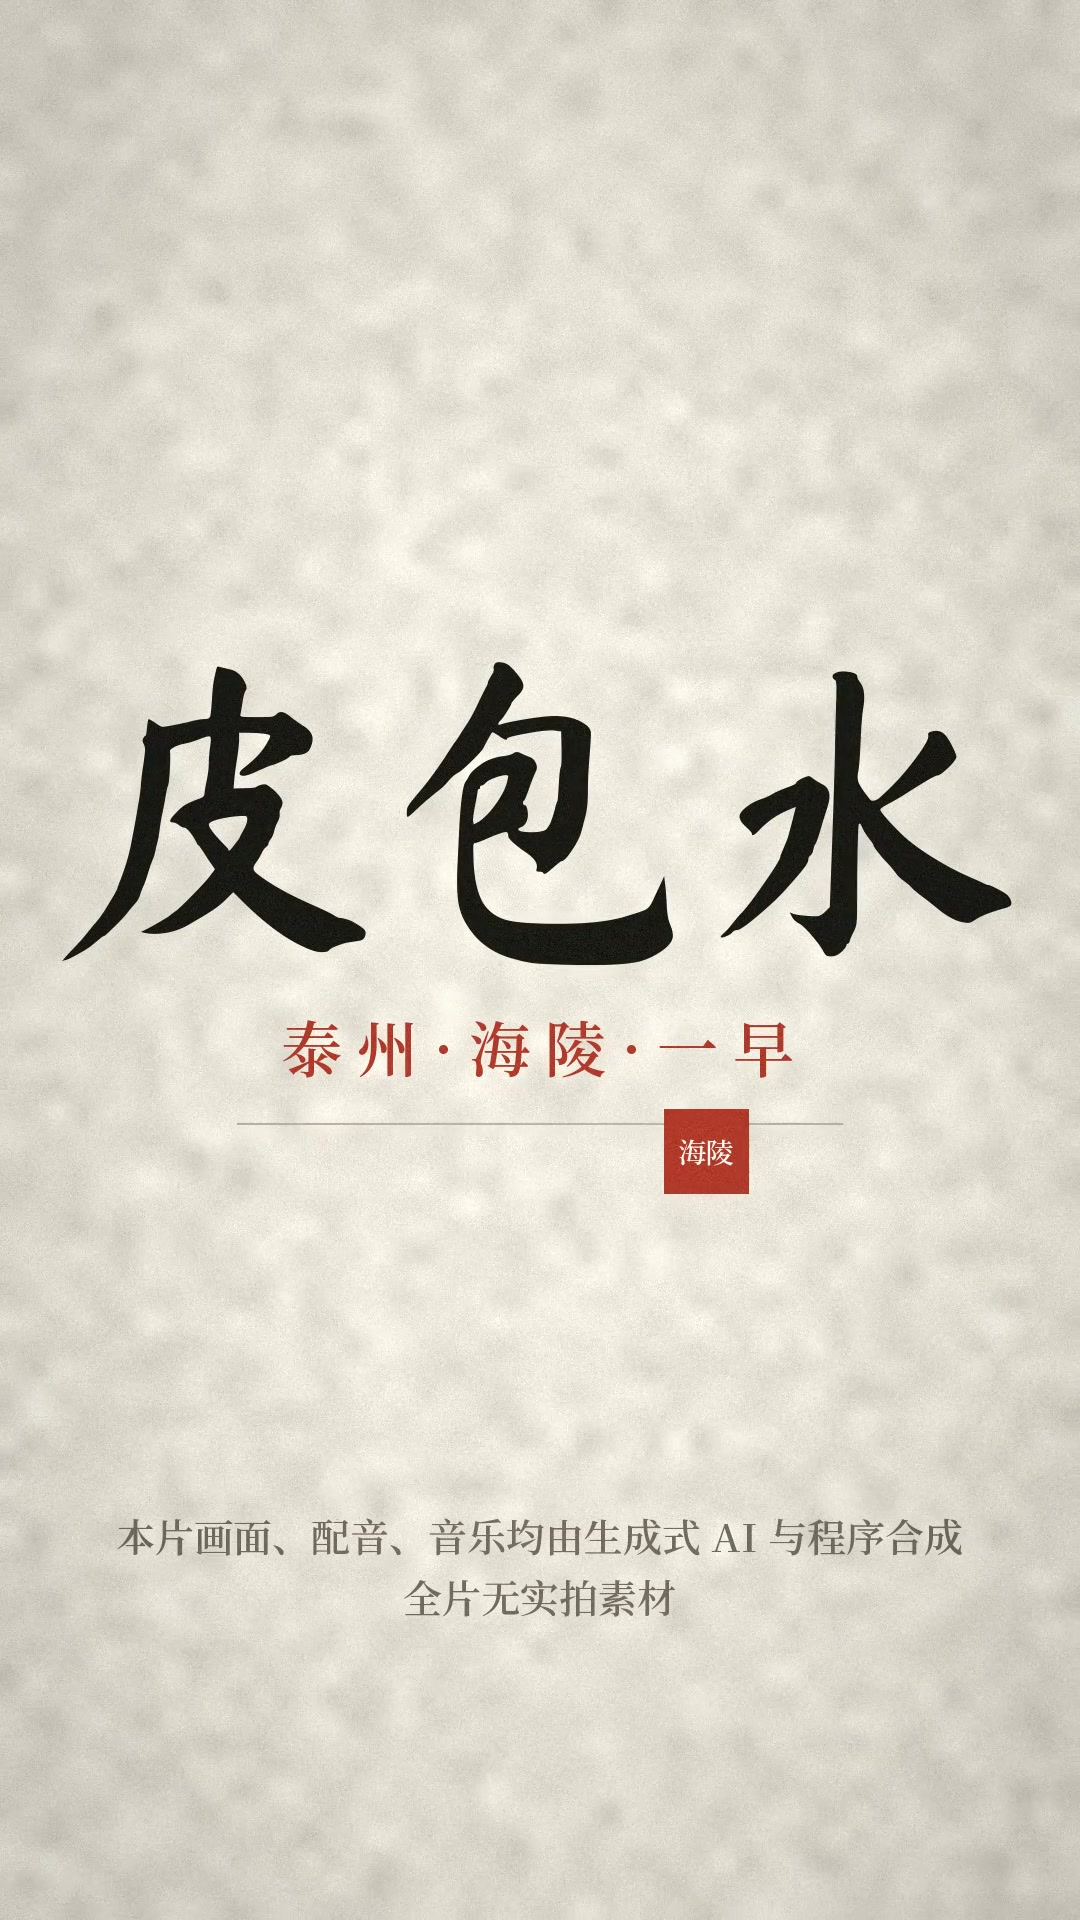
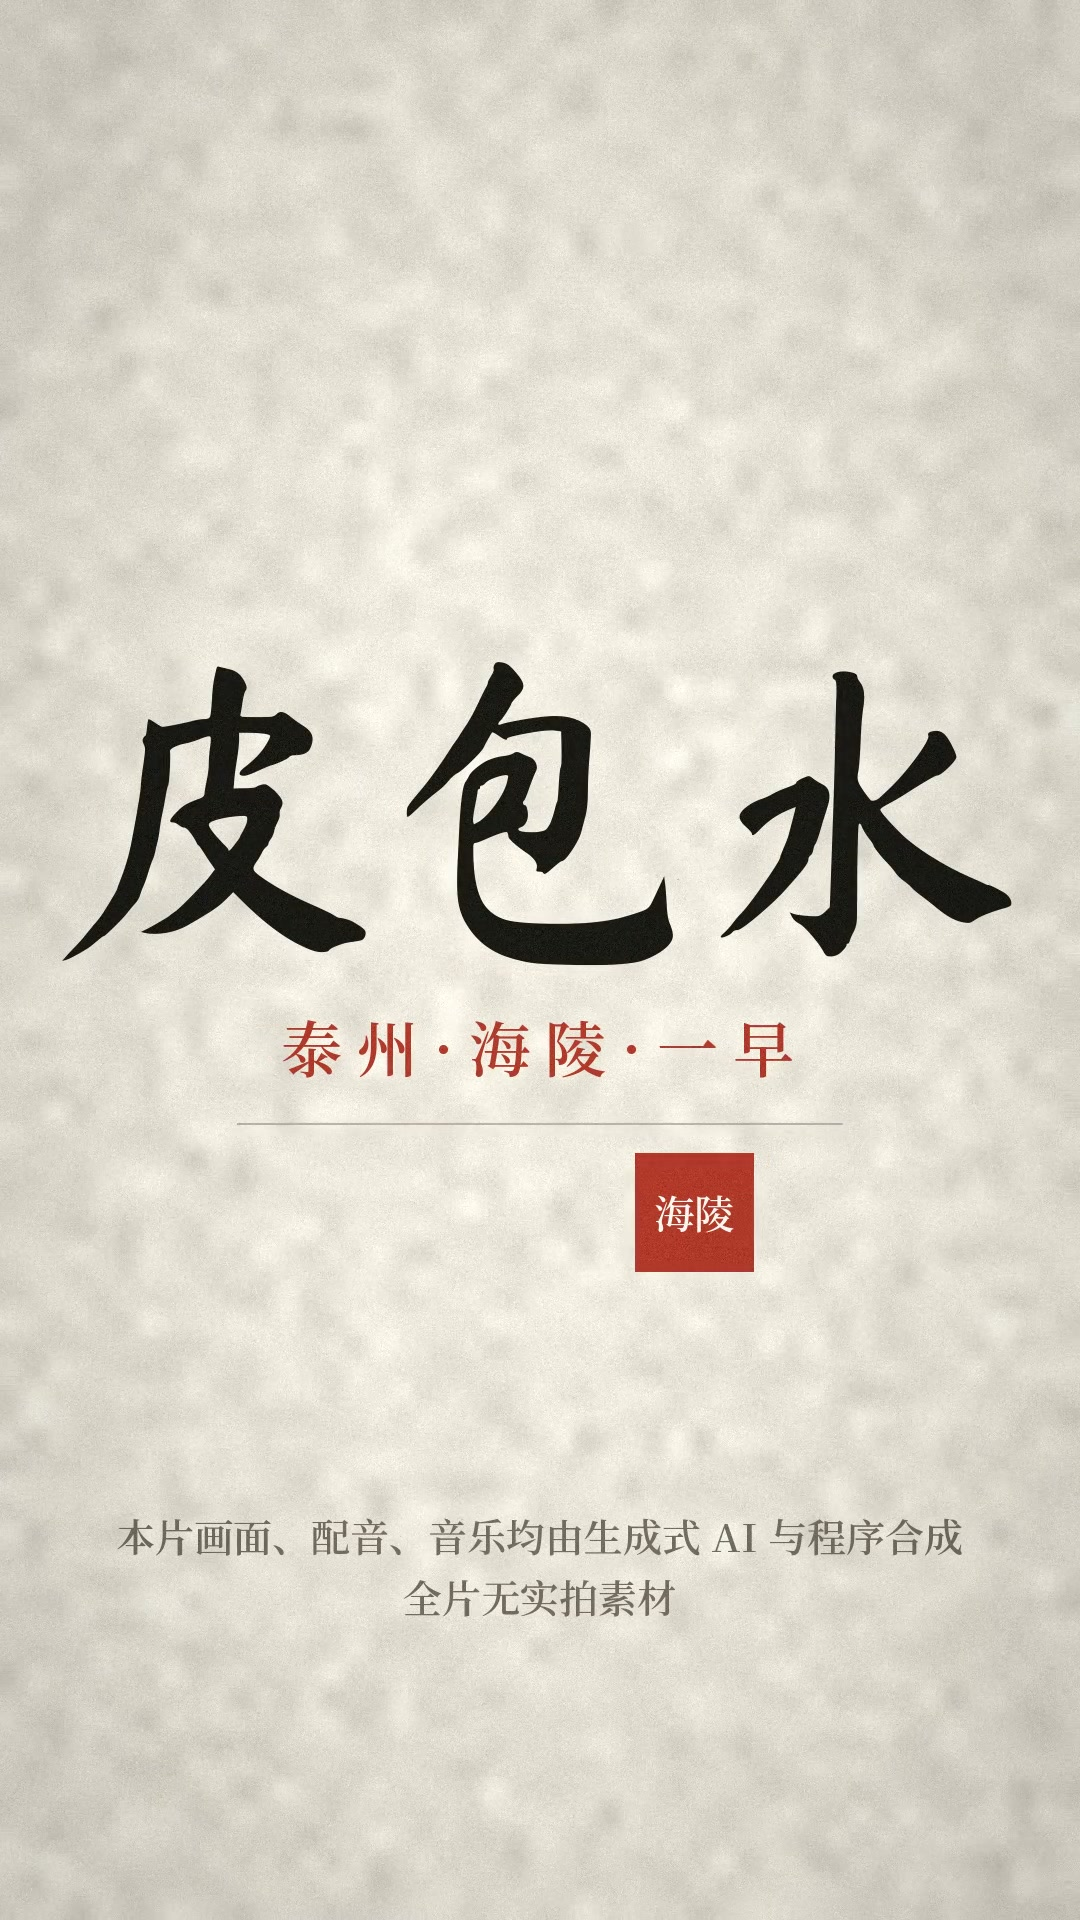
片尾朱印放大并移到细线下方；成片重出（232.08s / 429MB）

Changed region(s): [[0.5806, 0.5625, 0.7028, 0.6875]]

diff --git a/scripts/render_one.py b/scripts/render_one.py
@@ -1,0 +1,49 @@
+# -*- coding: utf-8 -*-
+"""只重渲一个镜头，参数与 render.py 完全一致，便于和母版 -c copy 拼接。
+
+  py -3 scripts/render_one.py S30 build/s30.mp4
+"""
+import os, sys, subprocess
+import numpy as np
+HERE = os.path.dirname(os.path.abspath(__file__))
+sys.path.insert(0, os.path.dirname(HERE)); sys.path.insert(0, HERE)
+import story as S
+import render as R
+
+sid = sys.argv[1]
+out = sys.argv[2]
+shot = [s for s in S.SHOTS if s["id"] == sid][0]
+cmd = ["ffmpeg", "-y", "-f", "rawvideo", "-pix_fmt", "rgb24", "-s", f"{R.W}x{R.H}",
+       "-r", str(R.FPS), "-i", "-", "-an", "-c:v", "libx264", "-preset", "medium",
+       "-crf", "23", "-pix_fmt", "yuv420p", out]
+proc = subprocess.Popen(cmd, stdin=subprocess.PIPE, stdout=subprocess.DEVNULL,
+                        stderr=subprocess.DEVNULL)
+n = int(round(shot["dur"] * R.FPS))
+marks = [m for m in S.MARKS if m["shot"] == sid]
+for k in range(n):
+    lt = k / R.FPS
+    frame = R.shot_frame(shot, lt, k)
+    for m in marks:
+        base = S.START[sid]
+        a = min(1.0, max(0.0, (lt - m["t"]) / 0.25)) if lt >= m["t"] else 0.0
+        if m["kind"] == "sfx":
+            a *= max(0.0, 1.0 - max(0.0, lt - m["t"] - 1.2) / 0.5)
+        if a > 0.01:
+            layer = R.Image.new("RGBA", (R.W, R.H), (0, 0, 0, 0))
+            R.draw_mark(layer, m)
+            if a < 1.0:
+                arr = np.asarray(layer, np.float32); arr[..., 3] *= a
+                layer = R.Image.fromarray(arr.clip(0, 255).astype(np.uint8))
+            frame.alpha_composite(layer)
+    arr = R.post(frame, k)
+    if sid in R.FADES:
+        fade = 1.0
+        if lt < 0.30:
+            fade = lt / 0.30
+        elif lt > shot["dur"] - 0.30:
+            fade = max(0.0, (shot["dur"] - lt) / 0.30)
+        if fade < 1.0:
+            arr = (arr * fade).astype(np.uint8)
+    proc.stdin.write(arr.tobytes())
+proc.stdin.close()
+print("rc", proc.wait(), out, n, "frames")

diff --git a/scripts/render.py b/scripts/render.py
@@ -232,8 +232,8 @@ def shot_frame(shot, local_t, frame_i):
         # 一条极淡的横线，压在片名下方
         d.line([(W * 0.22, H * 0.585), (W * 0.78, H * 0.585)], fill=(190, 180, 165), width=2)
         # 朱印（右下，一方小红块 + 白文）
-        s = 84
-        x0, y0 = int(W * 0.615), int(H * 0.578)
+        s = 118
+        x0, y0 = int(W * 0.588), int(H * 0.601)
         d.rectangle([x0, y0, x0 + s, y0 + s], fill=CINNABAR)
         seal = text_layer("海陵", int(s * 0.34), "serif", (255, 250, 244))
         base.paste(seal, (x0 + (s - seal.width) // 2, y0 + (s - seal.height) // 2), seal)

diff --git a/docs/04-PROOF.md b/docs/04-PROOF.md
@@ -16,10 +16,10 @@ bash verify.sh          # 没有 out/*.mp4 会自动构建，约 8 分钟
 
 | # | 条件 | 实测 | 结论 |
 | --- | --- | --- | --- |
-| AC-1 | 时长 60–300 s | **232.00 s**（3:52） | 过 |
+| AC-1 | 时长 60–300 s | **232.08 s**（3:52） | 过 |
 | AC-2 | 1080×1920 | **1080×1920** | 过 |
 | AC-3 | H.264 / yuv420p | **h264 / yuv420p** | 过 |
-| AC-4 | ≤ 2 GB | **429.8 MB** | 过 |
+| AC-4 | ≤ 2 GB | **429.1 MB** | 过 |
 | AC-5 | 音轨 48 kHz 立体声、响度、真峰 | 1 条 / **48000 Hz 2ch** / **−17.0 LUFS** / **−1.5 dBFS** | 过 |
 | AC-6 | 字幕 30 条、不重叠、在轴内、字幕区真有白字 | 30 条 / 无重叠 / 0 越界 / 高亮像素 **2.64%** | 过 |
 | AC-7 | 每条停留 ≥ 1.2 s、配音不超槽 | 最短 ≥ 1.2 s / **0 条超槽** / 配音 30 = 字幕 30 | 过 |
